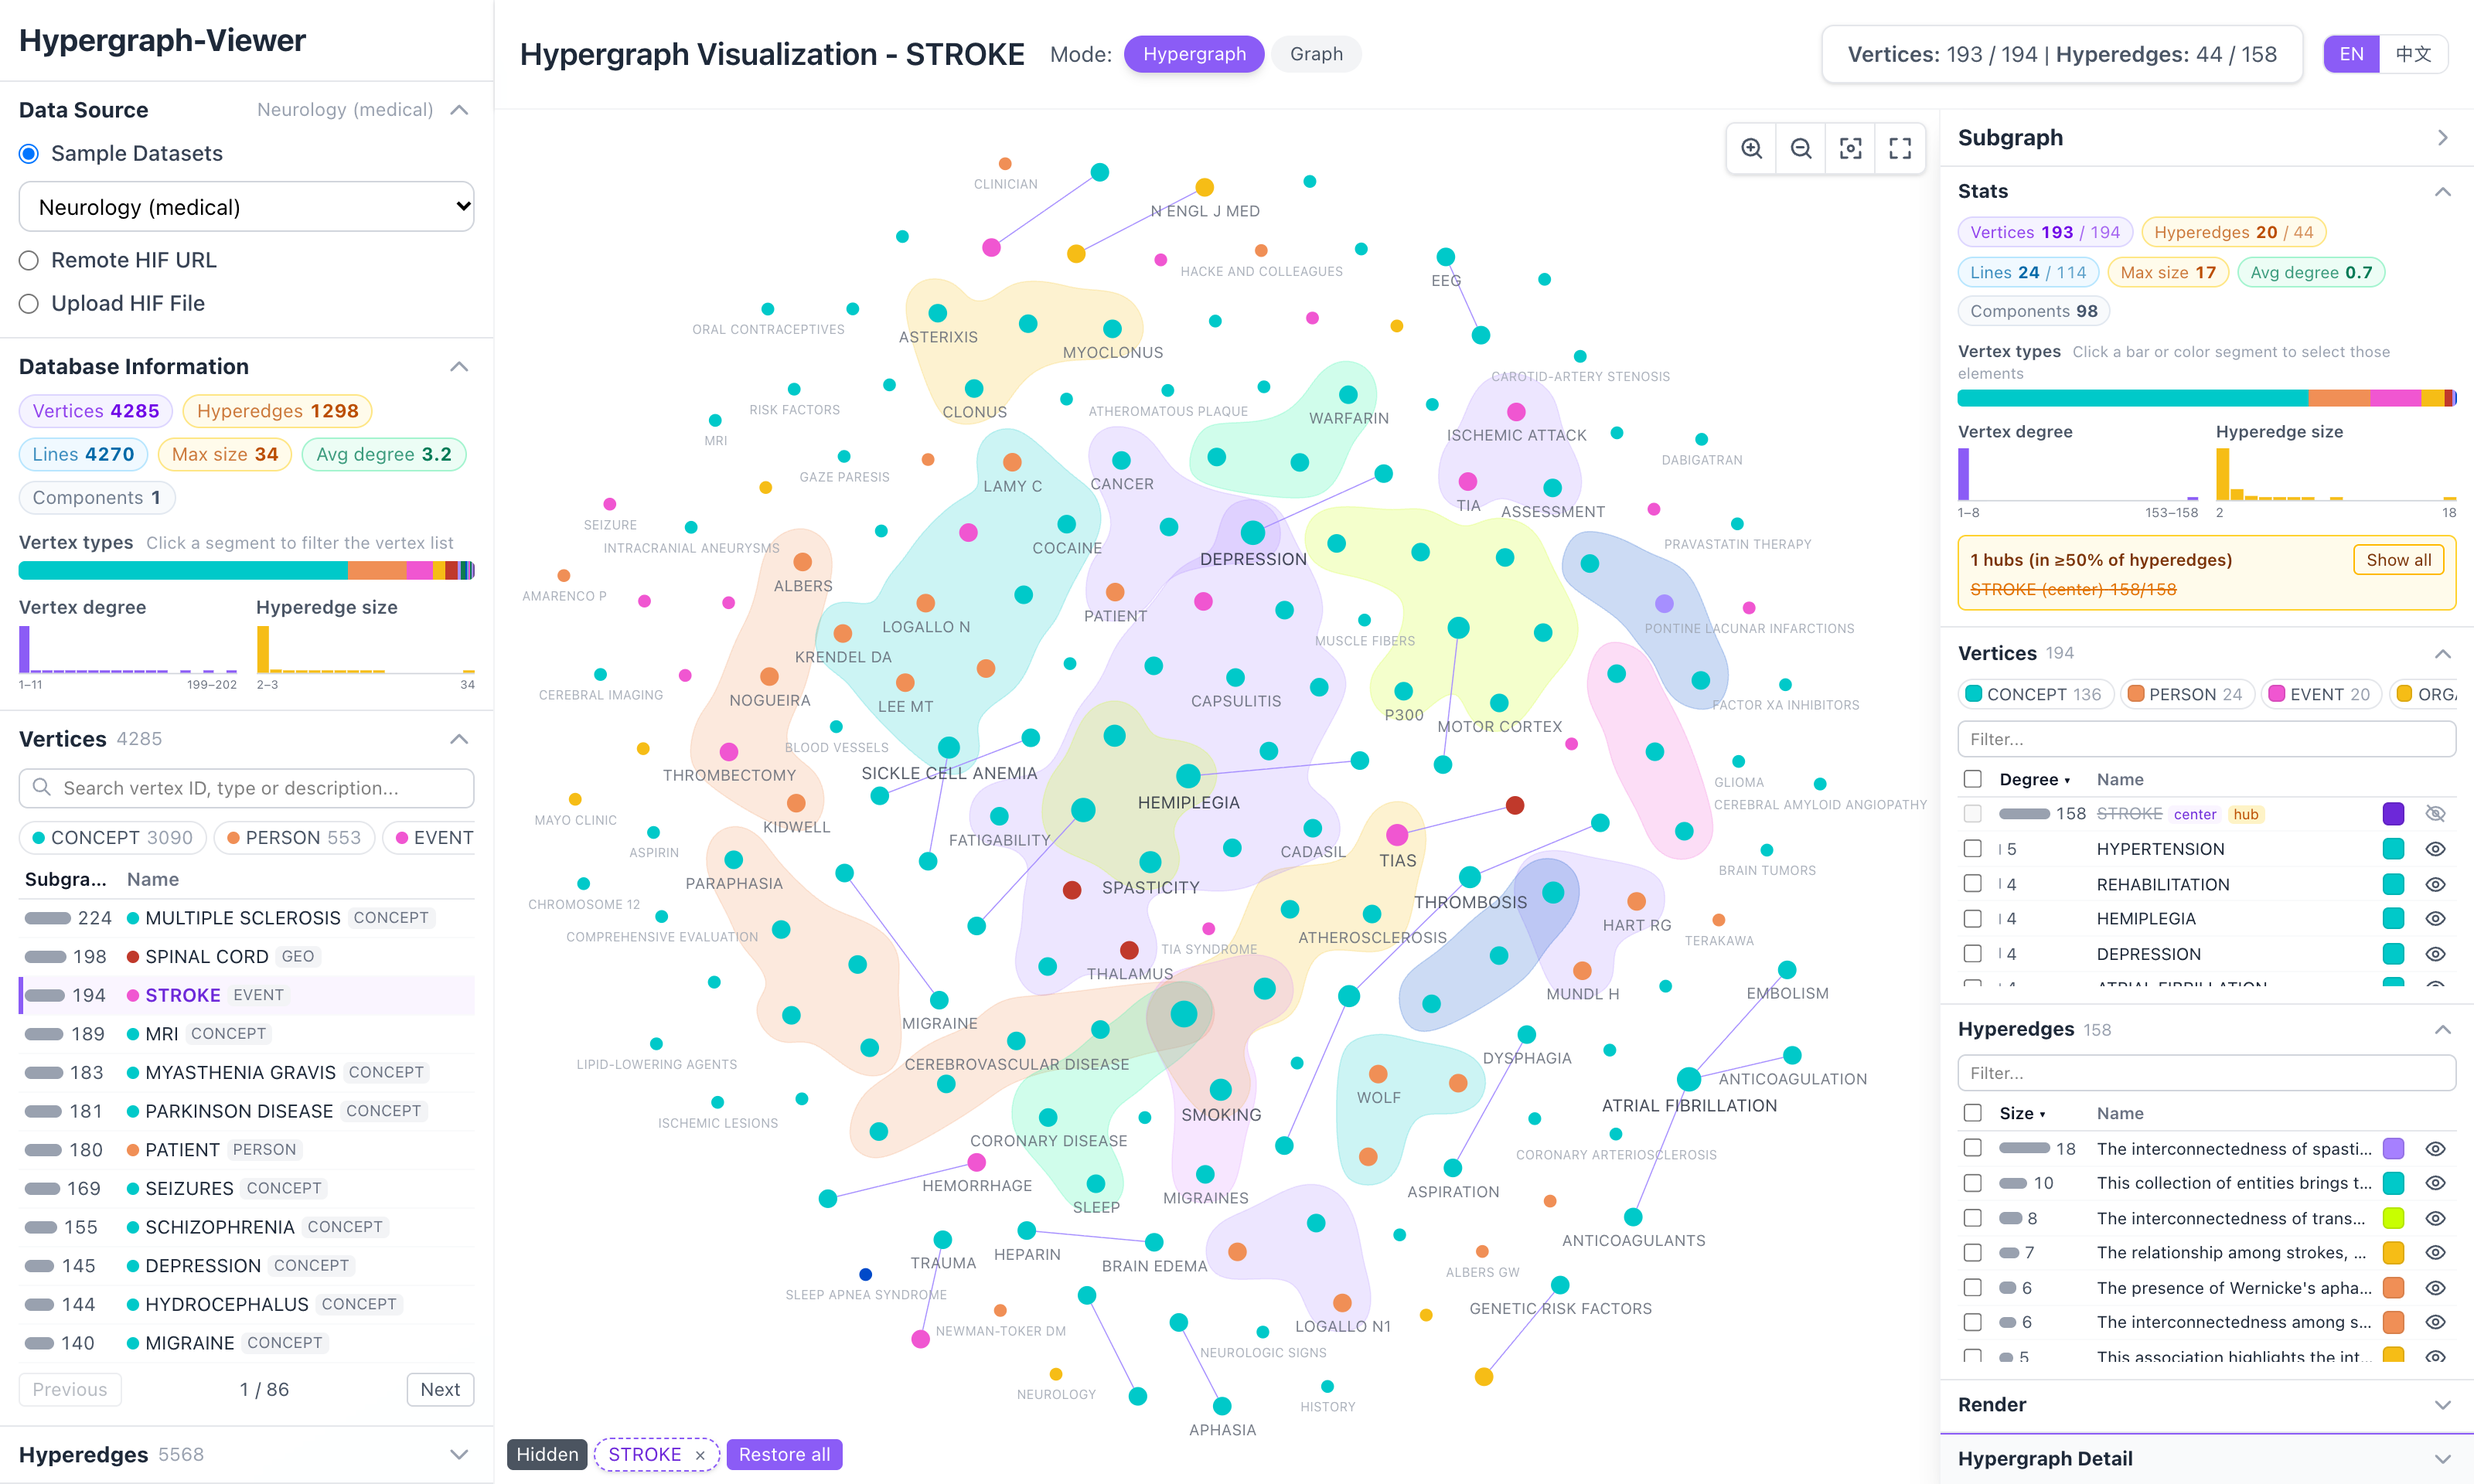
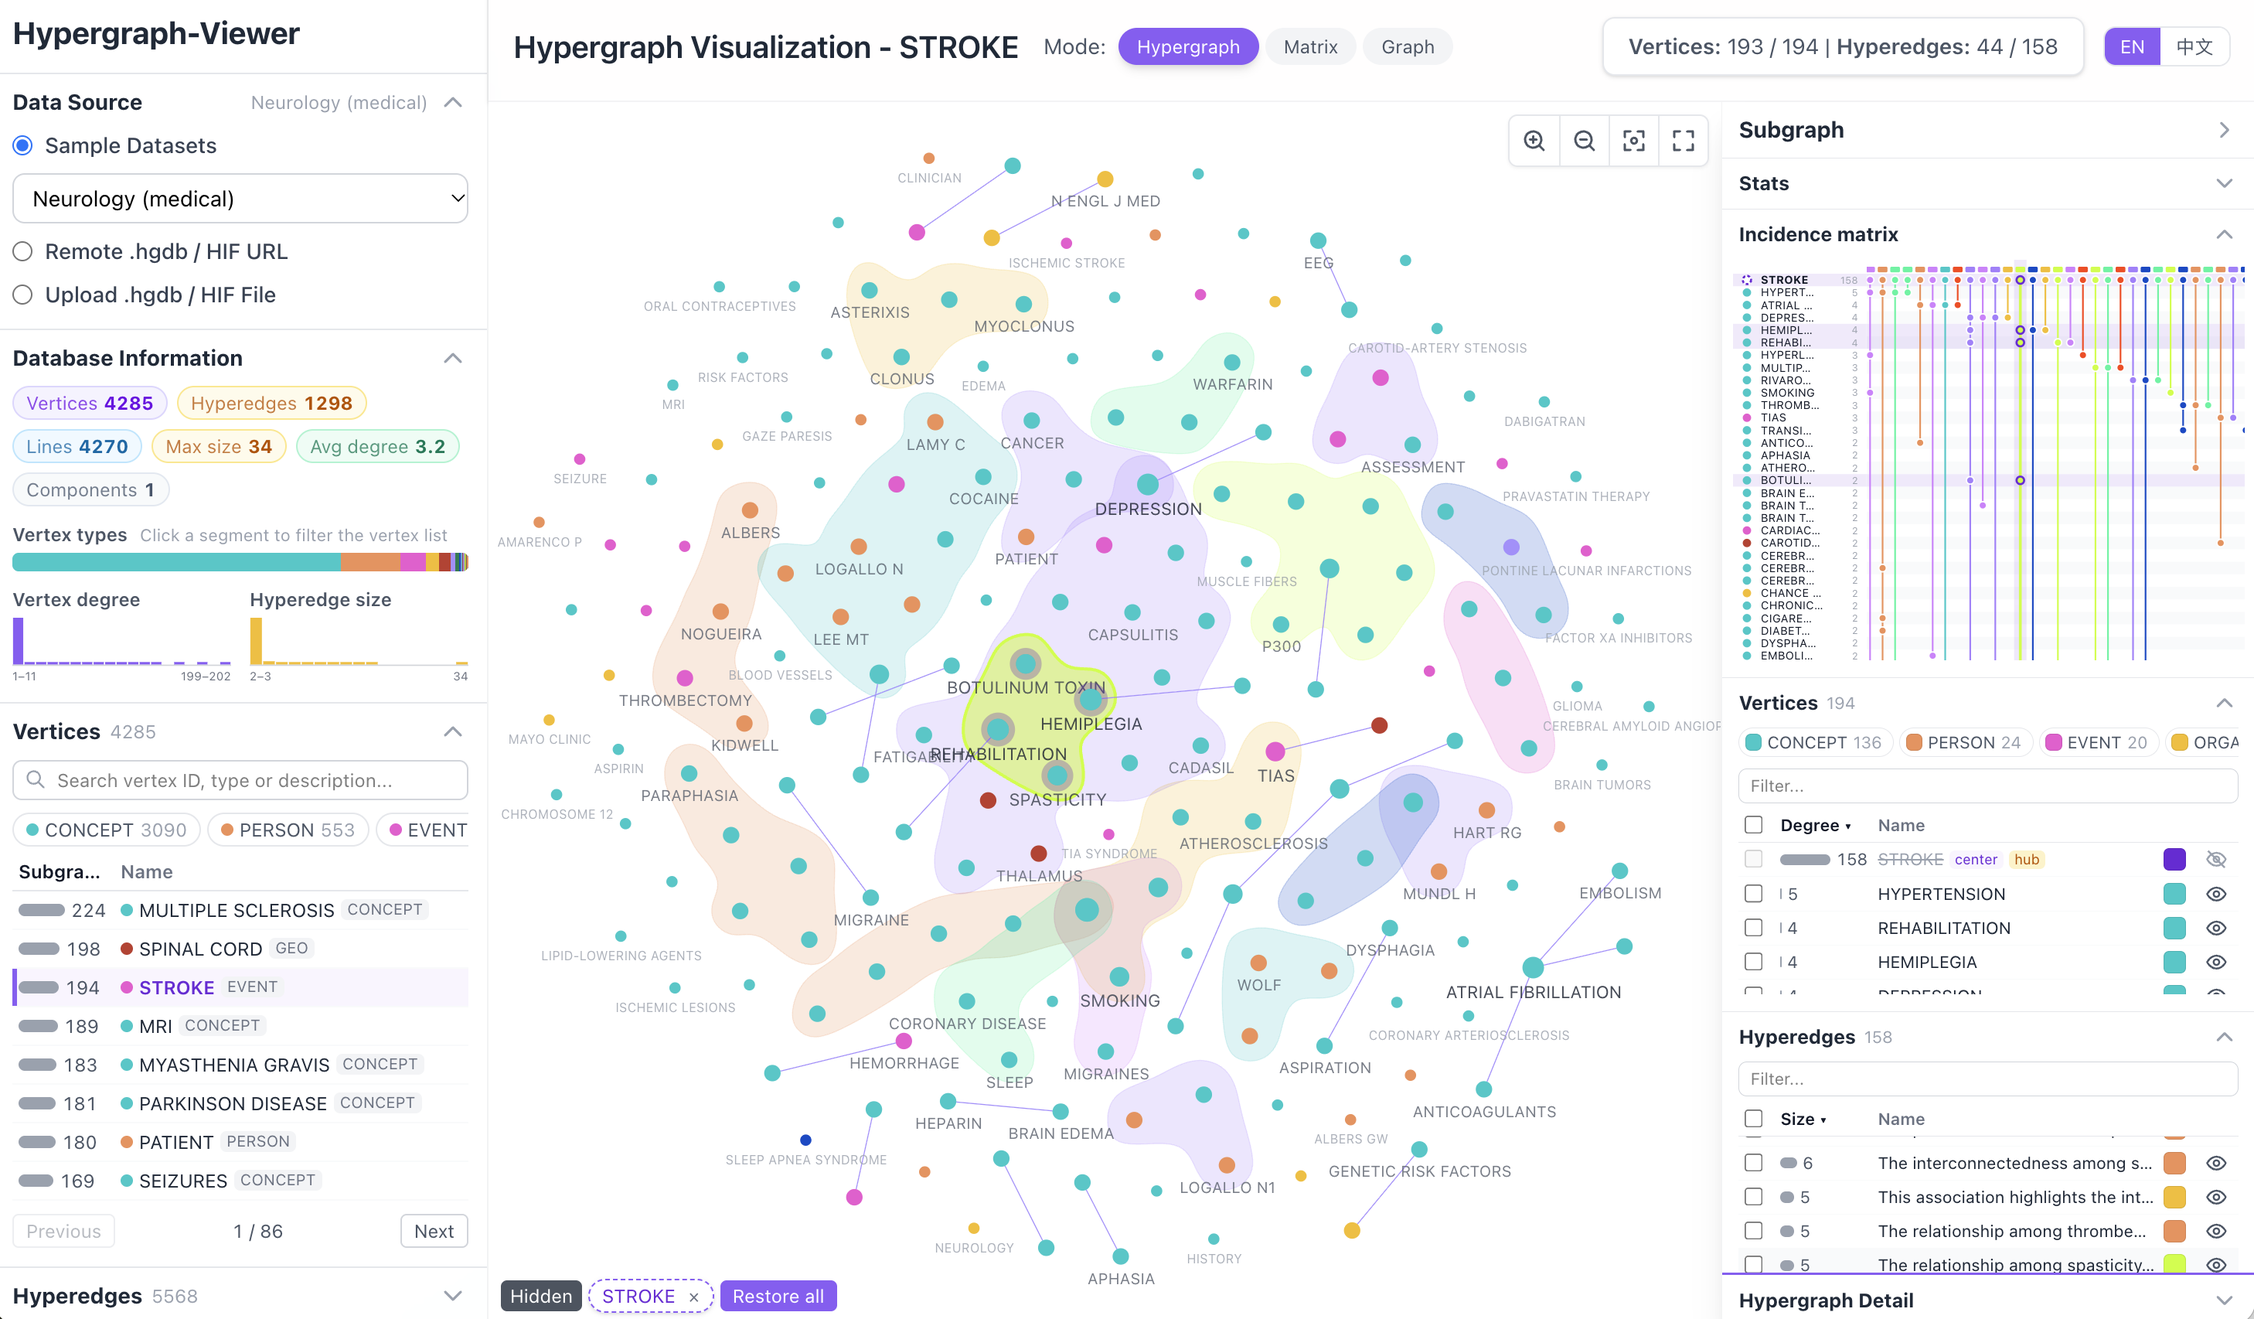
docs: incidence matrix and graph mode in the features, new screenshot, language links
中英文 README 共用一张截图；顶部加中英文切换链接。

diff --git a/README.md b/README.md
@@ -1,5 +1,7 @@
 # HypergraphViewer
 
+English | [简体中文](README-CN.md)
+
 Make every hypergraph viewable and readable.
 
 DEMO page: https://yuxizhe.github.io/HypergraphViewer/
@@ -14,10 +16,16 @@ DEMO page: https://yuxizhe.github.io/HypergraphViewer/
   - Hyperedges with 3+ members are drawn as contours around their nodes only (labels excluded), 2-member hyperedges as lines
   - Overlapping labels are hidden until hover or selection by default; the layout can also make room for every label
   - The same data always gives the same layout; force, ForceAtlas2 and circular layouts are also available in the Render panel
+- 🧮 **Incidence Matrix**: one row per vertex, one column per hyperedge, members as dots joined by a line in the hyperedge's color:
+  - Hubs that crowd the canvas are just full rows, so every hyperedge stays readable
+  - Rows and columns ordered by degree, grouped by type, or clustered so related vertices and hyperedges sit together
+  - Shown as a full view (Matrix mode) or next to the canvas in the right panel, linked both ways: hover or click a row or column to highlight it on the canvas, and the other way round
+  - Sticky row and column headers while scrolling; hover cards and selection work as on the canvas
+- 🔀 **Graph Mode**: hyperedges with 3+ members dropped, expanded into pairwise lines, or drawn as hyperedge nodes linked to their members (bipartite graph)
 - 🎨 **Interactive Interface**:
   - Canvas: hover for detailed information, drag graph elements, zoom and pan
   - Left panel: data source, database stats, vertex and hyperedge lists with type filters
-  - Right panel: subgraph stats, vertex / hyperedge tables (select, show / hide, recolor), render settings (layout, contours, node size)
+  - Right panel: subgraph stats, incidence matrix, vertex / hyperedge tables (select, show / hide, recolor), render settings (layout, contours, node size)
   - Panels are collapsible cards
 - 🗄 **Hypergraph-DB files**: `.hgdb` databases saved by [Hypergraph-DB](https://github.com/iMoonLab/Hypergraph-DB) (`hg.save(...)`) can be uploaded or opened with `?url=`. The pickle is decoded in the browser without running any code; values that are Python objects (e.g. custom classes) are shown as `<module.Class>`
 - 🔗 **Your own HIF files**: load a remote URL or upload a local file. `?url=<HIF file URL>` opens a remote file directly; the server must allow cross-origin requests (raw GitHub URLs do). `NaN` / `Infinity` values written by Python's `json` are read as `null`
@@ -51,7 +59,8 @@ The hypergraph rendering of this project is published as the npm package [`hyper
 - **Hypergraph layout**: vertices of the same hyperedge stay together, non-members are pushed out of its contour, labels do not overlap
 - **Hyperedge contours**: hyperedges with 3+ members are drawn as bubble sets around the nodes only (labels excluded); 2-member hyperedges are drawn as lines
 - **Hover and selection**: hover callbacks for nodes, lines and contours; clicking a hyperedge highlights its members and dims the rest
-- **Graph mode**: hyperedges as pairwise lines with a force layout
+- **Graph mode**: hyperedges as pairwise lines with a force layout, or as hyperedge nodes linked to their members (bipartite graph)
+- **Incidence matrix**: one row per vertex, one column per hyperedge (`IncidenceMatrixView`); hubs are just full rows
 - React component, framework-free API, and a `<script>` build (`window.HypergraphViz`)
 
 ```bash

diff --git a/README-CN.md b/README-CN.md
@@ -1,8 +1,10 @@
 # Hypergraph Viewer - React Version (中文版)
 
+[English](README.md) | 简体中文
+
 让超图看得见，也看得懂。
 
-<img width="100%" alt="Hypergraph Viewer 界面：数据库面板、超图画布与当前子图面板" src="docs/images/screenshot-cn.png" />
+<img width="100%" alt="Hypergraph Viewer 界面：数据库面板、超图画布与当前子图面板" src="docs/images/screenshot.png" />
 
 ## 功能特性
 
@@ -12,10 +14,16 @@
   - 3 个及以上成员的超边画成只圈节点（不含标签）的轮廓，2 个成员的超边画成连线
   - 默认隐藏会重叠的标签，悬停、选中时显示；也可以让布局为每个标签留出位置
   - 同样的数据总是得到同样的布局；渲染面板中还可切换力导、ForceAtlas2 和环形布局
+- 🧮 **关联矩阵**：一行一个实体、一列一条超边，成员处画点并用超边颜色的竖线连起:
+  - 画布上挤成一团的枢纽实体在矩阵里只是满格的一行，每条超边都看得清
+  - 行列可按度数排序、按类型分组，或聚类排序让相关的实体与超边聚在一起
+  - 可作为整个视图（矩阵模式），也可在右侧栏与画布并排显示，双向联动：悬停、点选行或列即在画布上高亮，反之亦然
+  - 滚动时行、列标题固定；悬停卡片与选择和画布一致
+- 🔀 **图模式**：3 个及以上成员的超边可丢弃、拆成两两连线，或画成连向各成员的超边节点（二部图）
 - 🎨 **交互式界面**:
   - 画布：鼠标悬停显示详细信息，可拖拽图形元素，缩放和平移
   - 左侧面板：数据源、数据库统计、实体与超边列表（支持类型筛选）
-  - 右侧面板：当前子图统计、实体 / 超边表（选择、显隐、改色）、渲染设置（布局、轮廓、节点大小）
+  - 右侧面板：当前子图统计、关联矩阵、实体 / 超边表（选择、显隐、改色）、渲染设置（布局、轮廓、节点大小）
   - 面板为可展开收起的卡片
 - 🗄 **Hypergraph-DB 文件**：[Hypergraph-DB](https://github.com/iMoonLab/Hypergraph-DB) 保存的 `.hgdb` 数据库（`hg.save(...)`）可以上传或用 `?url=` 打开。pickle 在浏览器中解码，不执行任何代码；属性值为 Python 对象（如自定义类）时显示为 `<模块.类名>`
 - 🔗 **自己的 HIF 文件**：可加载远程网址或上传本地文件。网址加 `?url=<HIF 文件网址>` 可直接打开远程文件；文件所在服务器需允许跨域请求（GitHub raw 网址可以）。Python `json` 写出的 `NaN` / `Infinity` 按 `null` 读取
